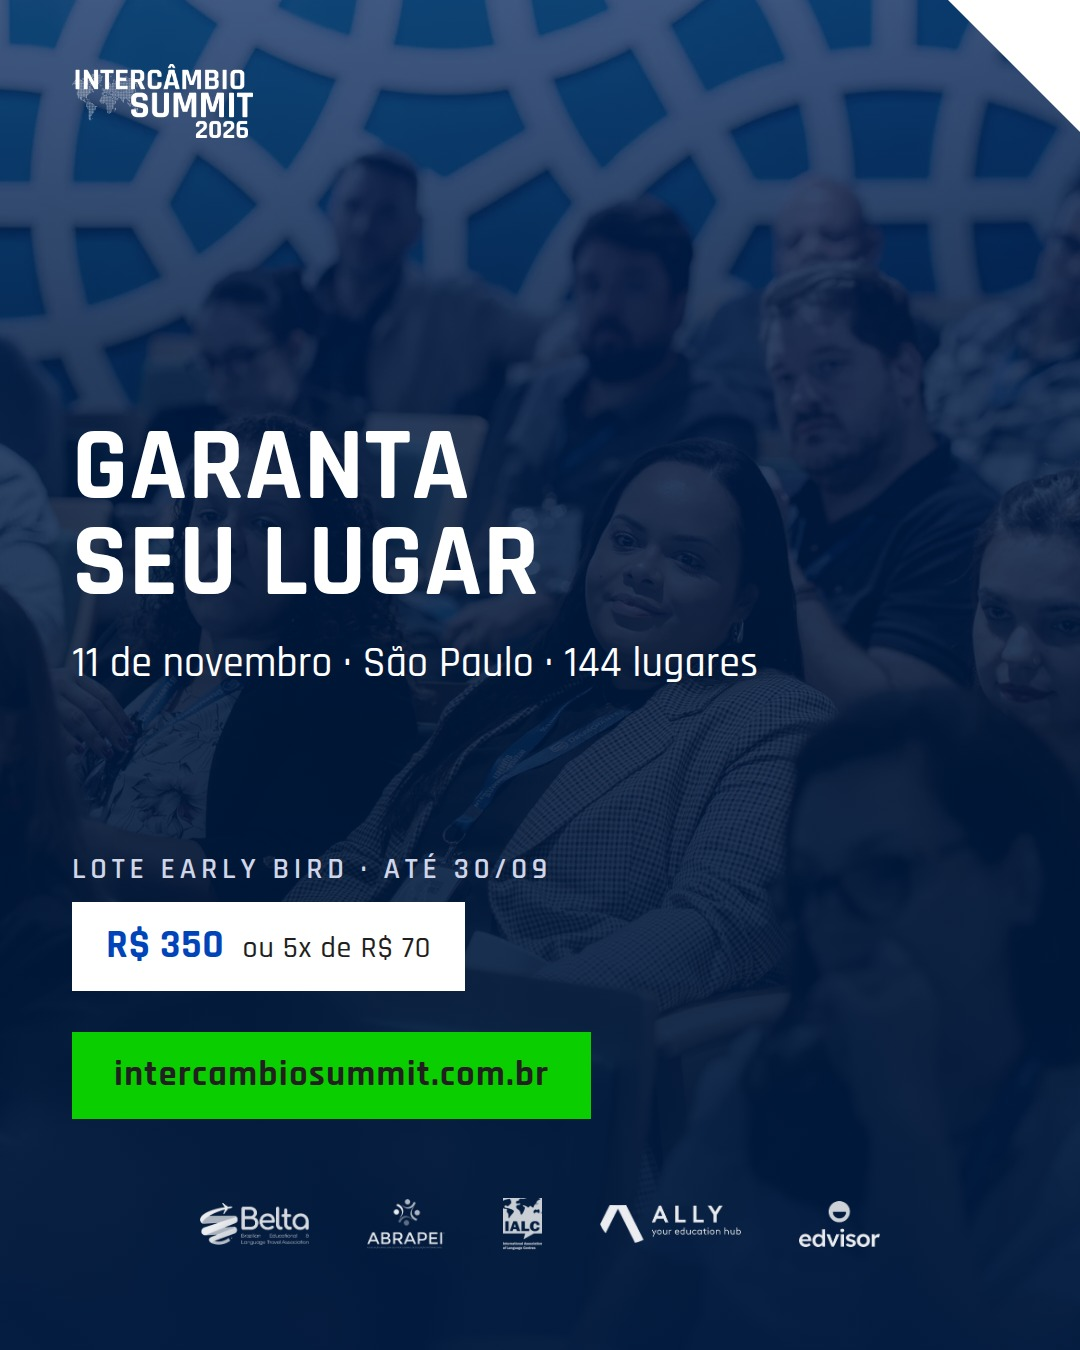
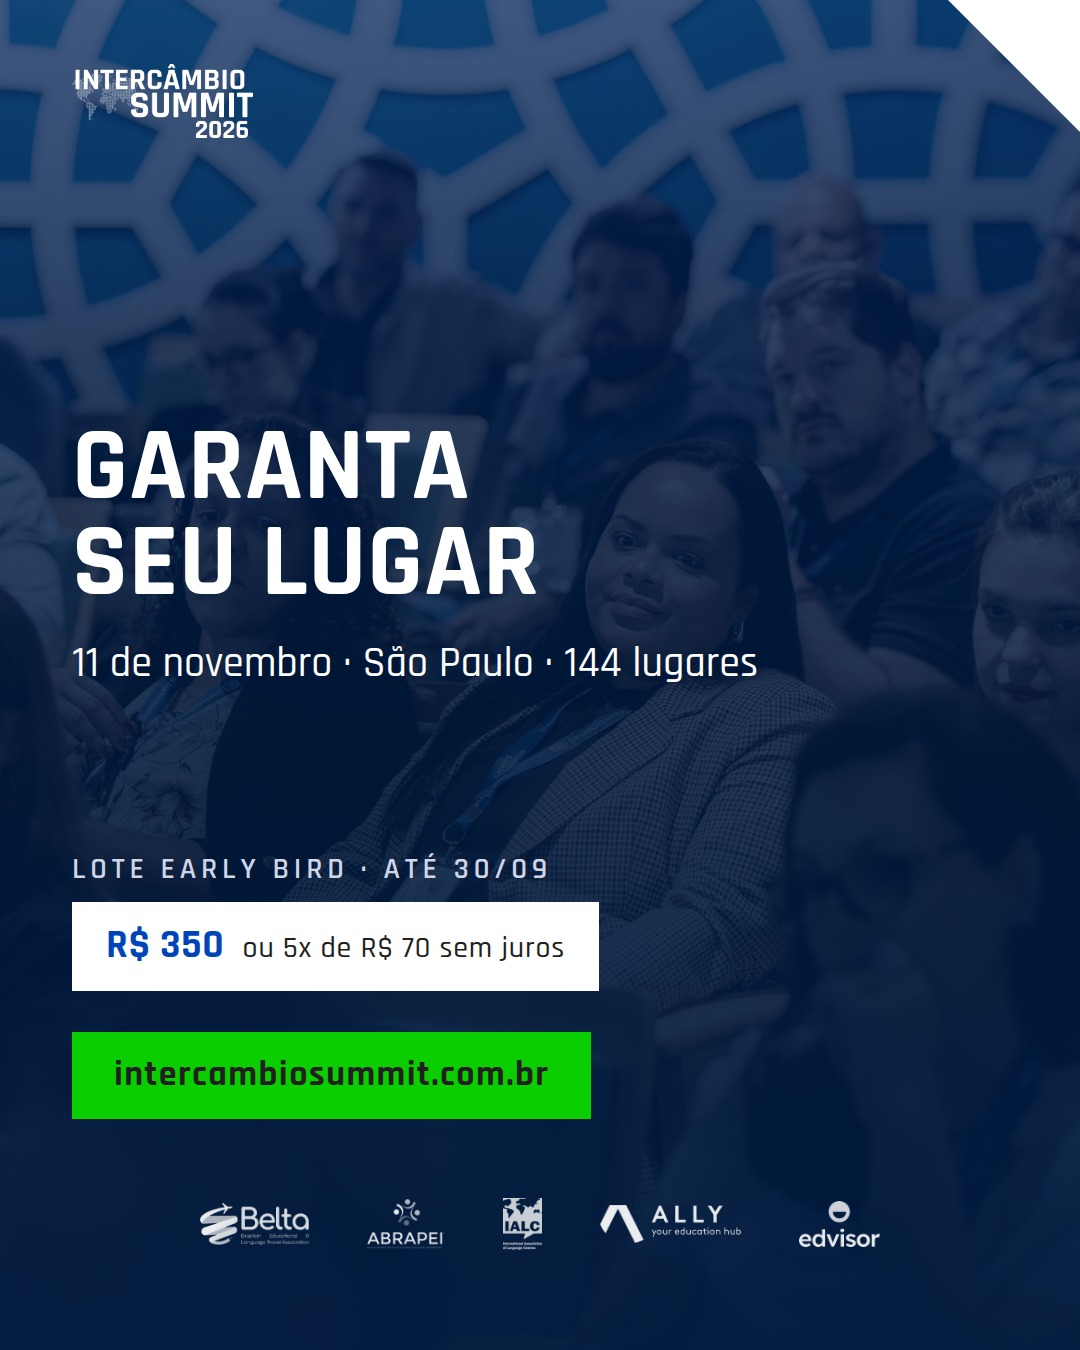
Parcelas marcadas como sem juros nas peças de preço
Modelo A, P3, P4/Modelo B (segunda linha nos degraus) e card final do P7.

Claude-Session: https://claude.ai/code/session_01K1jUSLEfcAN8o76QZJPw2m

Changed region(s): [[0.3972, 0.6533, 0.5806, 0.7467]]

diff --git a/criativos/templates/modelo-b-precos.html b/criativos/templates/modelo-b-precos.html
@@ -37,6 +37,8 @@
     white-space: nowrap; }
   .degrau .parc  { font-weight: 500; font-size: 24px; color: rgba(255,255,255,.75);
     margin-top: 6px; white-space: nowrap; }
+  .degrau .parc .sj { display: block; font-weight: 600; font-size: 19px;
+    letter-spacing: .10em; text-transform: uppercase; margin-top: 3px; opacity: .9; }
 
   .degrau.d1 { height: 300px; }
   .degrau.d2 { height: 370px; }
@@ -85,19 +87,19 @@
         <div class="nome">Lote<br>Early Bird</div>
         <div class="prazo">até 30/09</div>
         <div class="valor">R$ 350</div>
-        <div class="parc">ou 5x de R$ 70</div>
+        <div class="parc">ou 5x de R$ 70 <span class="sj">sem juros</span></div>
       </div>
       <div class="degrau d2">
         <div class="nome">Segundo lote</div>
         <div class="prazo">até 24/10</div>
         <div class="valor">R$ 450</div>
-        <div class="parc">ou 5x de R$ 90</div>
+        <div class="parc">ou 5x de R$ 90 <span class="sj">sem juros</span></div>
       </div>
       <div class="degrau d3">
         <div class="nome">Último lote</div>
         <div class="prazo">até 10/11</div>
         <div class="valor">R$ 550</div>
-        <div class="parc">ou 5x de R$ 110</div>
+        <div class="parc">ou 5x de R$ 110 <span class="sj">sem juros</span></div>
       </div>
       <div class="degrau d4 porta">
         <div class="nome">No dia, 11/11</div>

diff --git a/criativos/templates/setembro-p7-cta.html b/criativos/templates/setembro-p7-cta.html
@@ -33,7 +33,7 @@
 
     <div class="bloco-oferta">
       <div class="lote">Lote Early Bird · até 30/09</div>
-      <div class="pill-preco">R$ 350 <span class="ou">ou 5x de R$ 70</span></div>
+      <div class="pill-preco">R$ 350 <span class="ou">ou 5x de R$ 70 sem juros</span></div>
     </div>
 
     <div class="cta-wrap"><span class="cta">intercambiosummit.com.br</span></div>

diff --git a/criativos/templates/modelo-a-institucional.html b/criativos/templates/modelo-a-institucional.html
@@ -34,7 +34,7 @@
 
     <div class="bloco-oferta">
       <div class="lote">Lote Early Bird</div>
-      <div class="pill-preco">R$ 350 <span class="ou">ou 5x de R$ 70</span></div>
+      <div class="pill-preco">R$ 350 <span class="ou">ou 5x de R$ 70 sem juros</span></div>
     </div>
 
     <div class="cta-wrap"><span class="cta">intercambiosummit.com.br</span></div>

diff --git a/criativos/templates/setembro-p3-abertura.html b/criativos/templates/setembro-p3-abertura.html
@@ -40,7 +40,7 @@
 
     <div class="bloco-oferta">
       <div class="lote">Lote Early Bird</div>
-      <div class="pill-preco">R$ 350 <span class="ou">ou 5x de R$ 70</span></div>
+      <div class="pill-preco">R$ 350 <span class="ou">ou 5x de R$ 70 sem juros</span></div>
     </div>
 
     <div class="cta-wrap"><span class="cta">intercambiosummit.com.br</span></div>
